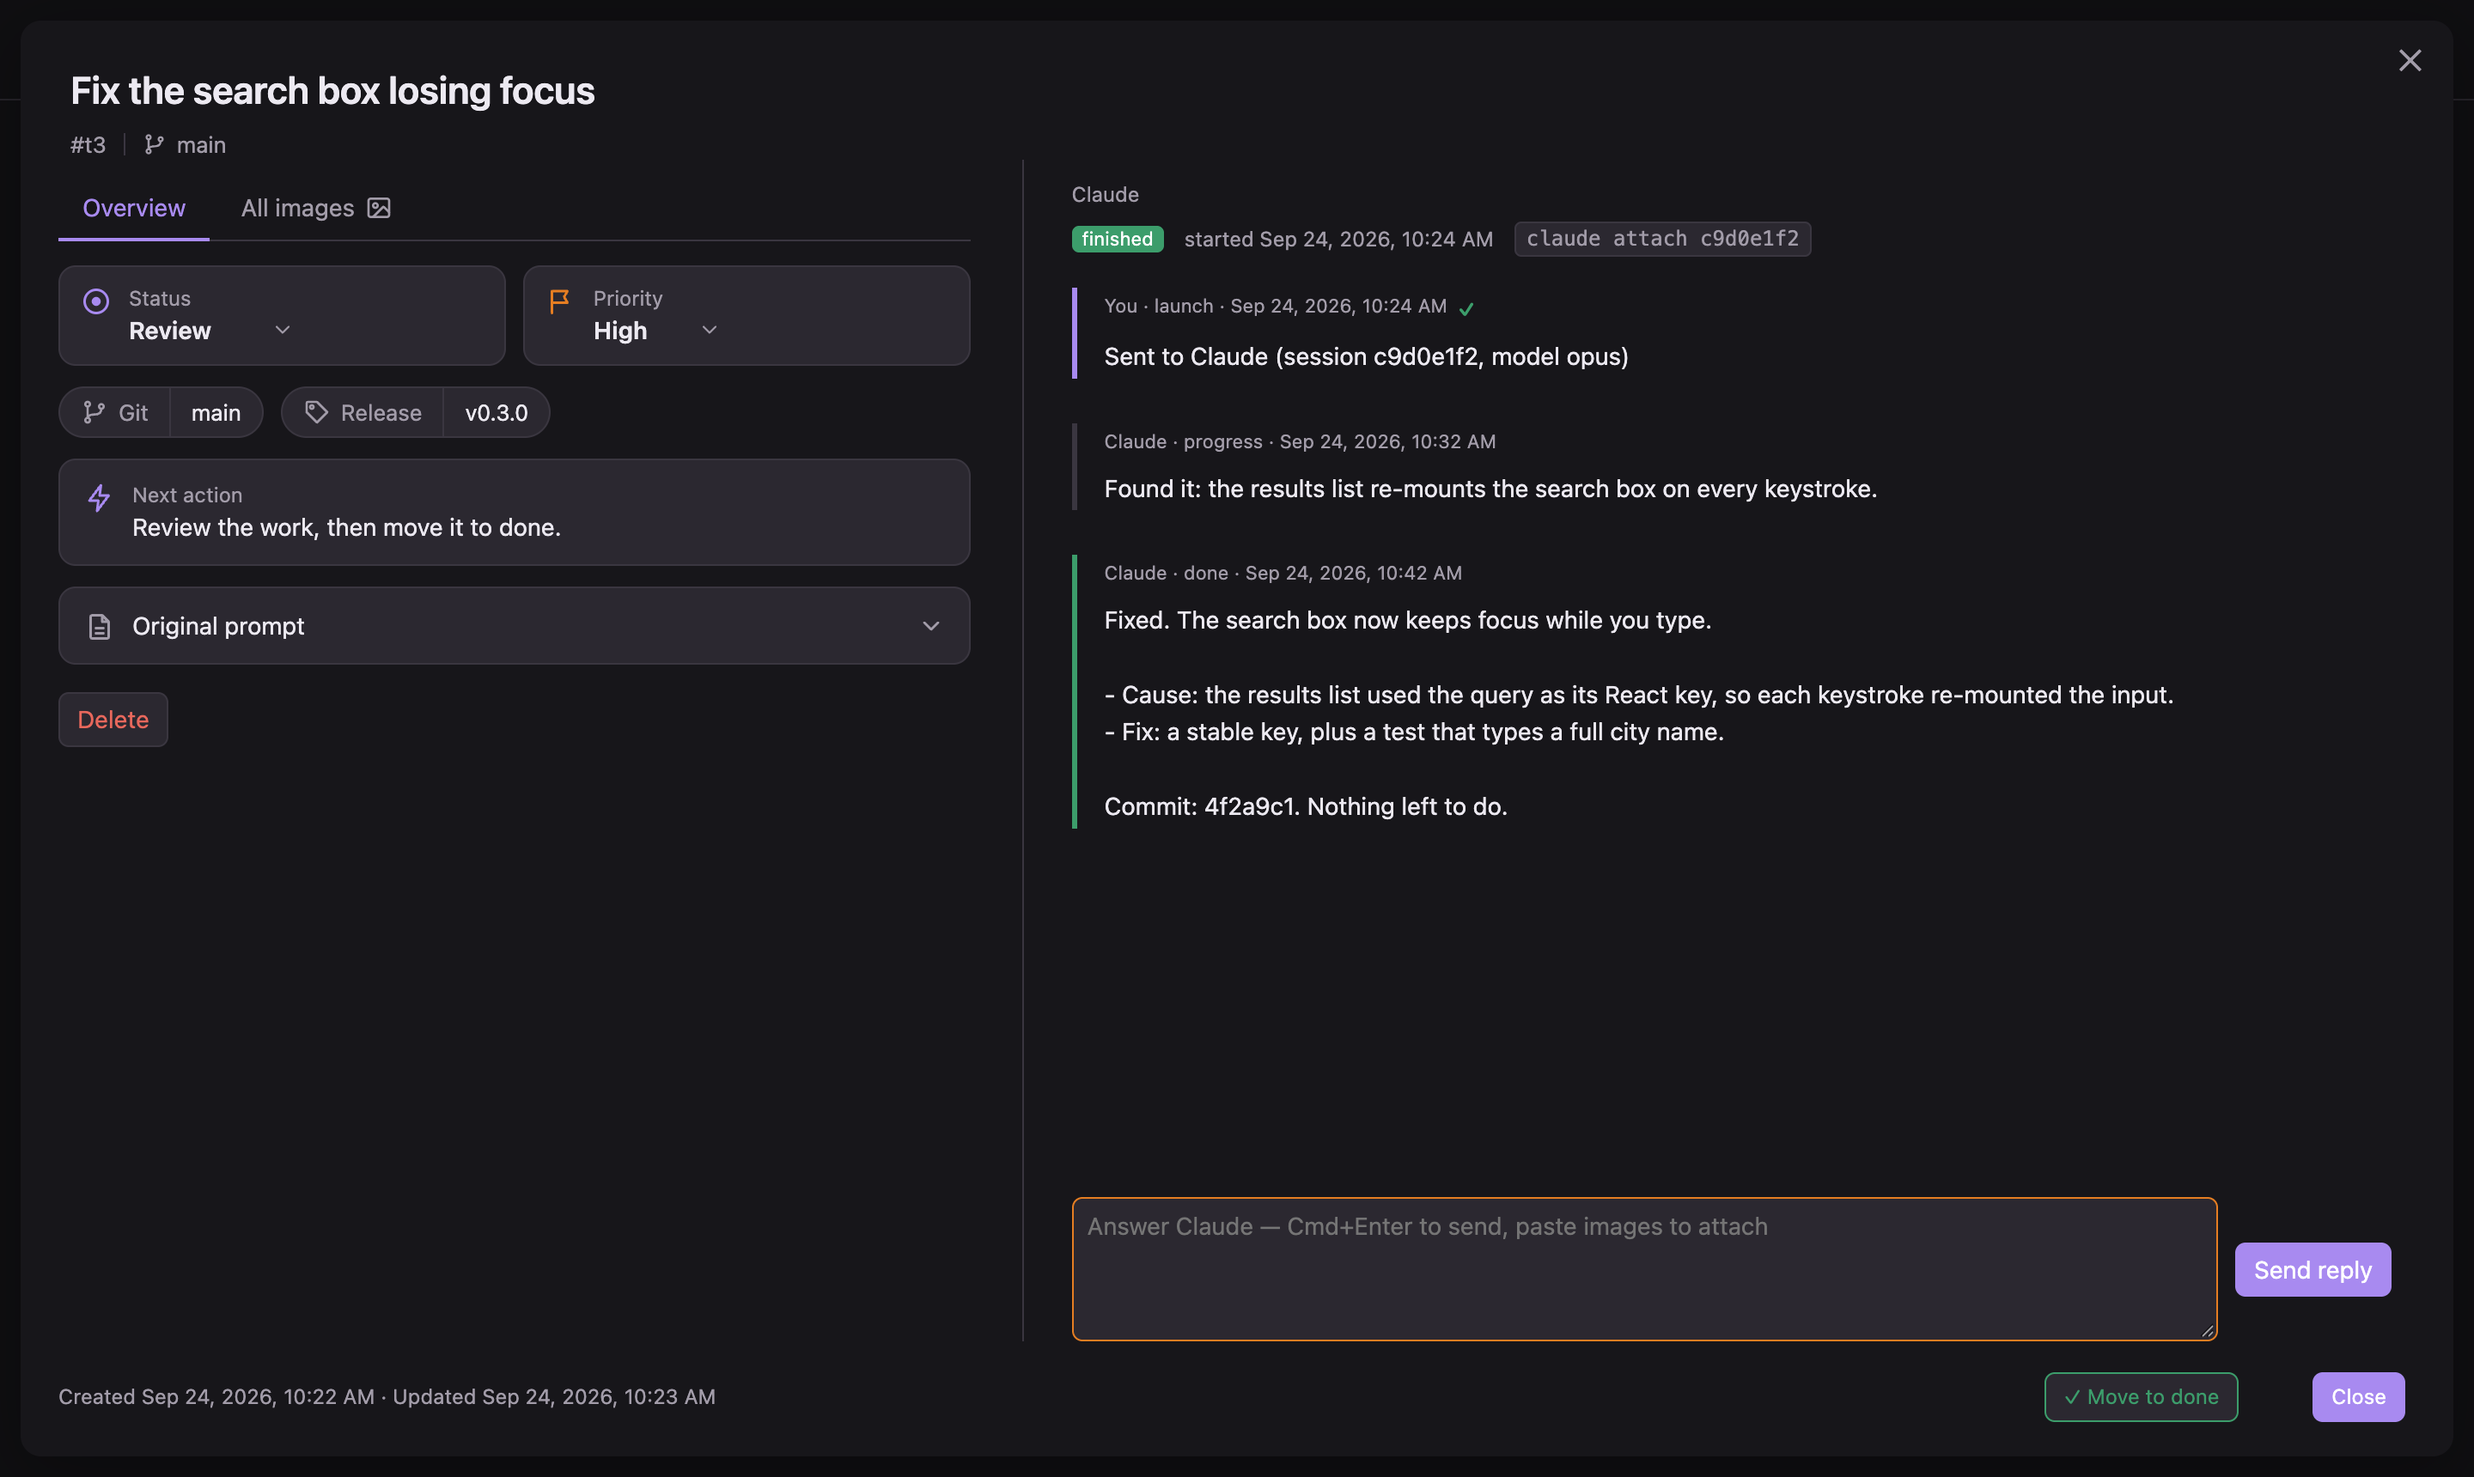
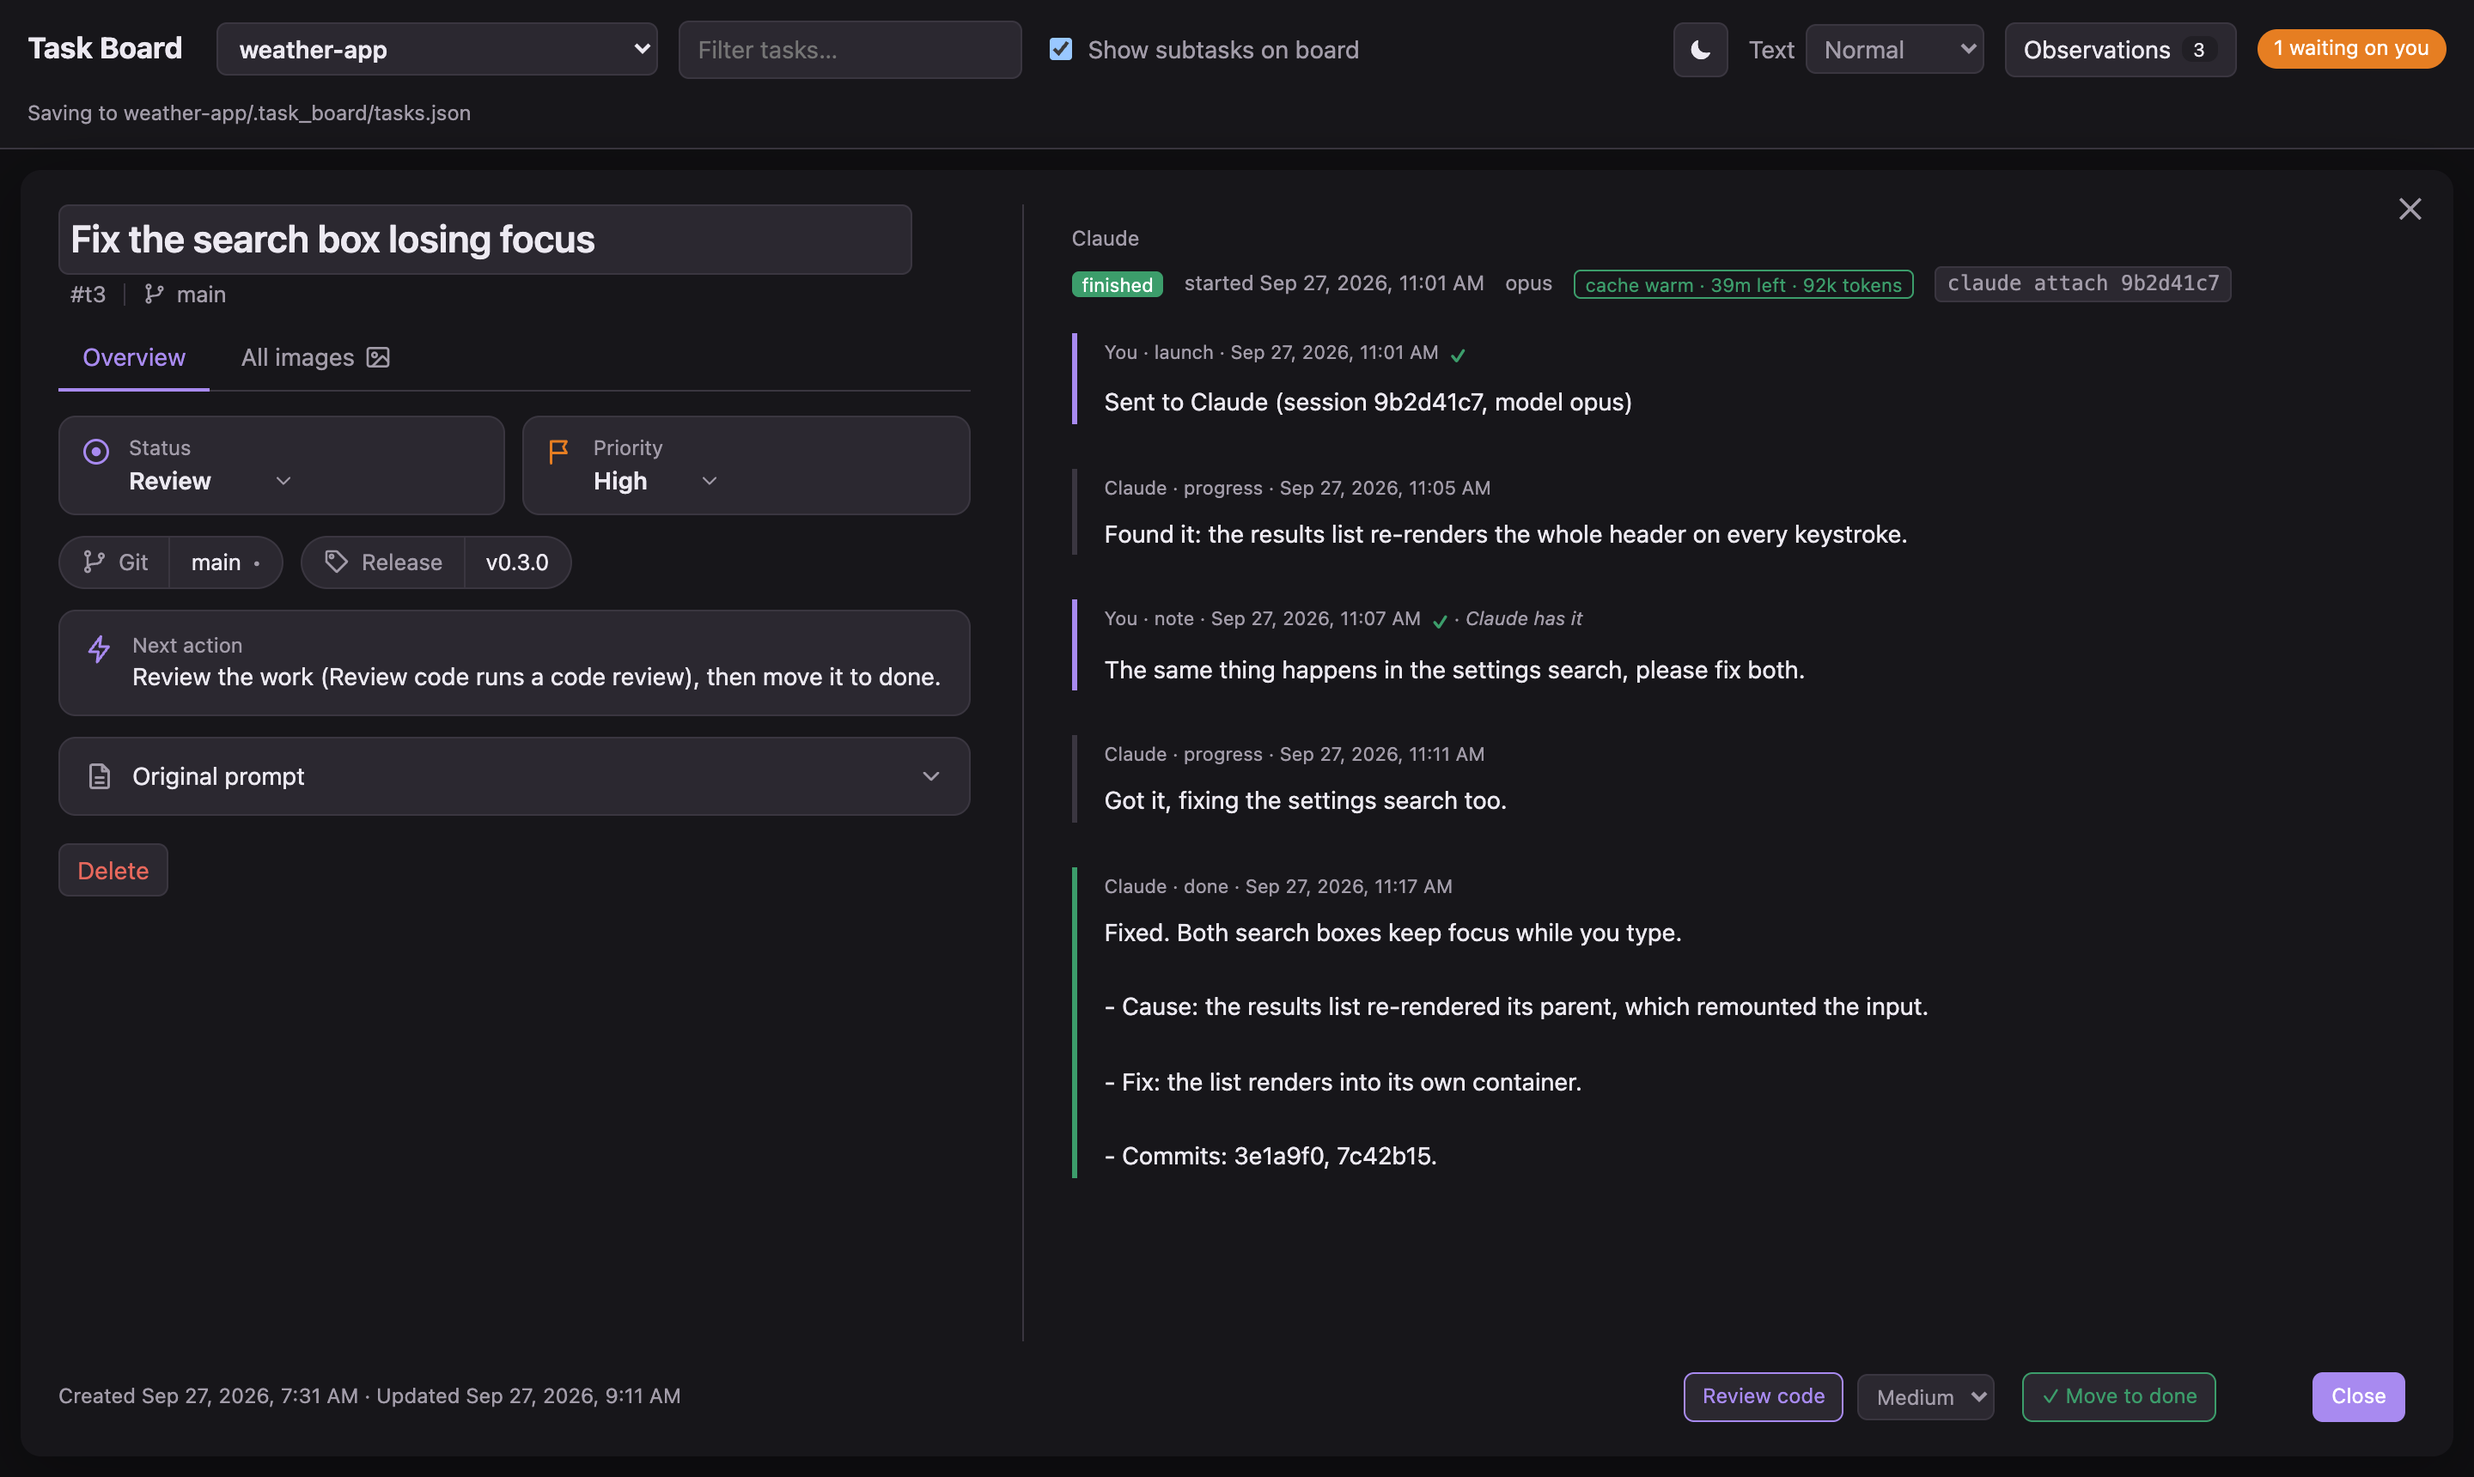
README: new features and fresh screenshots
Adds: cards moving on their own (no card drag), subagent rows, the project
menu's * (count) marker, the prompt-cache chip, answers in your language,
Code review label and per-finding tests, Apply installing skills, and the
.git/info/exclude entries for skill work. Screenshots retaken from a demo
board, plus a new one of the Observations window.

diff --git a/README.md b/README.md
@@ -4,11 +4,11 @@ A local kanban board that hands cards to Claude Code. Write a task, click **Send
 and the agent works on it in the background, posting its progress, questions and results
 back onto the card.
 
-![The board: one task Claude is working on, one waiting on you, one finished](docs/screenshots/board.png)
+![The board: a task Claude splits across subagents, one waiting on you, one finished, one under code review](docs/screenshots/board.png)
 
 | Claude asks you a question | Claude reports it is done |
 |---|---|
-| ![A card with Claude's question and a reply box](docs/screenshots/question.png) | ![A card with Claude's progress and final report](docs/screenshots/finished.png) |
+| ![A card with Claude's question and a reply box](docs/screenshots/question.png) | ![A card with Claude's progress, a note you sent while it worked, its final report, and the Review code button](docs/screenshots/finished.png) |
 
 ## Requirements
 
@@ -85,25 +85,35 @@ the git repo you run it from.
 
 1. **Pick a project.** The project menu at the top switches boards. **Open folder…** adds any
    folder. Each project keeps its board in `<project>/.task_board/`. Commit `tasks.json` and
-   `images/`; `agent_reports/` is run chatter and stays out of git.
+   `images/`; `agent_reports/` is run chatter and stays out of git. A project with work
+   waiting on you shows `*` and a count in the menu, e.g. `weather-app * (2)`: questions, plus
+   finished cards you have not opened yet.
 2. **Add a task.** Give it a title, notes, subtasks. You can paste images into the notes.
 3. **Send to Claude.** Pick a model (or leave the default) and send. A background Claude
    session starts in the project folder with the task as its prompt. Tick
-   **Divide in subtasks / use subagents** to let it split the work.
+   **Divide in subtasks / use subagents** to let it split the work; the card then lists each
+   subagent (running, finished or stopped) and what a running one is doing now.
 4. **Follow the card.** It shows whether the agent is working, needs you, or is finished,
-   and on macOS you get a notification when it needs you or finishes.
+   and on macOS you get a notification when it needs you or finishes. Cards move on their own:
+   to **In Progress** when Claude starts, to **Review** when it finishes, and to **Done** when you
+   click **Move to done** (hidden while Claude still has work on it). You can't drag cards; to
+   move one by hand, use the Status menu in its panel. Columns still drag to reorder.
+   A **cache** chip counts down the session's prompt cache. Reply before it runs out
+   ("cache cold") and the reply reads the context from cache, at a lower price.
 5. **Reply on the card.** Answer questions or ask for changes. The reply resumes the same
    session. You can also write while Claude is still working, to add information or change
    course. That message is a **note**. Claude reads it right after its current step, or just
    before it would stop. The card shows "Claude has it" once it is delivered. A hook that
    the board installs on each session it starts (`inbox.py`) does this. For a session started
-   before this feature, the note goes in as soon as the session stops.
+   before this feature, the note goes in as soon as the session stops. Claude answers in the
+   language you wrote in, even if the project is in another one.
 6. **Review the code.** A finished card in the Review column has a **Review code** button.
    It starts a fresh Claude session that finds the task's commits, runs the `commit-review`
    skill on them (one cheap pass; it ships in `skills/commit-review/`, and the reviewer reads it
    from there if it is not installed in `~/.claude/skills/`), and
    posts the findings on the card. Pick the budget in the task panel: Low, Medium (default)
-   or High. Reply to have it fix the findings.
+   or High. Every level runs a small test on each finding. The card shows **Code review** while
+   it runs. Reply to have it fix the findings.
 
 ### Skill observations
 
@@ -121,8 +131,14 @@ a step that kept failing, a workflow worth keeping. Every session the board star
   the newer `observation-log/` folder).
 - Click it to see the list. Click an observation to read it.
 - Tick the ones you want and click **Apply**. The board makes a new card, "Apply N skill
-  observations", and sends it to Claude. Claude edits the skills, marks each observation done, and
-  reports on the card like any task. It asks you first if one needs a decision, such as a new skill.
+  observations", and sends it to Claude. The click is your approval: Claude edits the skills,
+  installs them, marks each observation done, and reports on the card like any task. It asks you
+  first if one needs a decision, such as a new skill.
+- Observation logs and skill edits stay out of git. The board adds `skill-observations/`,
+  `skill-updates/` and `.claude/skills/` to the project's `.git/info/exclude` (local only, not
+  `.gitignore`) and tells each session not to commit them. Files git already tracks are not affected.
+
+![The Observations window: two observations ticked, one opened to read it](docs/screenshots/observations.png)
 
 The ◐ button in the header switches the theme: System (follows your computer), Light, or Dark.
 
@@ -221,6 +237,7 @@ names) and `session` are added when they apply.
 | `~/.config/task_board/default_model.json` | The name of your default Claude model, cached for 24 hours |
 | `~/.claude/skills/task-observer/` | The task-observer skill, copied there by the install command |
 | `<project>/skill-observations/`, `~/.claude/skill-observations/` | Observations the skill logs. The board only reads them |
+| `<project>/.git/info/exclude` | Gets `skill-observations/`, `skill-updates/` and `.claude/skills/` added, so skill work stays out of your commits |
 | `~/.claude.json` | Only when you click **Trust folder and send**: marks that folder as trusted, like accepting Claude Code's own trust prompt |
 | Your browser's local storage | View settings only: theme, text size, show subtasks, collapsed groups, last project, last model picked, which cards you have read |
 
